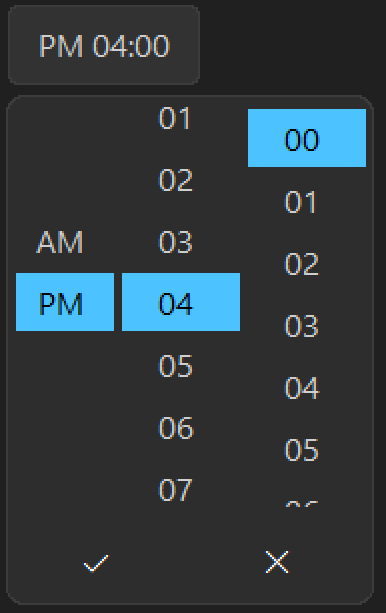
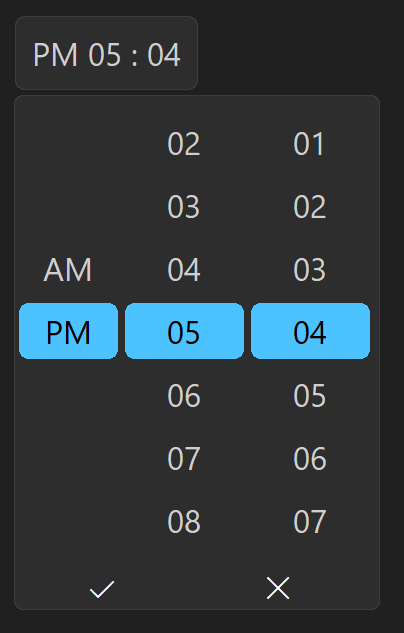
内部背景元素改为圆角

diff --git a/tinuipicker/datepicker.py b/tinuipicker/datepicker.py
@@ -74,12 +74,12 @@ class TinUIDatePicker:
         for i in (self.out_line, self.back, self.main_text):
             self.self.addtag_withtag(uid, i)
             
-        self.self.tag_bind(uid, "<Enter>", lambda e: self.self.itemconfig(self.back, fill=self.cfg['activebg'], outline=self.cfg['activebg']))
-        self.self.tag_bind(uid, "<Leave>", lambda e: self.self.itemconfig(self.back, fill=self.cfg['bg'], outline=self.cfg['bg']))
+        self.self.tag_bind(uid, "<Enter>", lambda _: self.self.itemconfig(self.back, fill=self.cfg['activebg'], outline=self.cfg['activebg']))
+        self.self.tag_bind(uid, "<Leave>", lambda _: self.self.itemconfig(self.back, fill=self.cfg['bg'], outline=self.cfg['bg']))
         self.self.tag_bind(uid, "<Button-1>", self.show)
 
         self.self._BasicTinUI__auto_anchor(uid, self.pos, self.anchor)
-        self.uid.layout = lambda x1, y1, x2, y2, expand=False: self.self._BasicTinUI__auto_layout(
+        self.uid.layout = lambda x1, y1, x2, y2, _=False: self.self._BasicTinUI__auto_layout(
             uid, (x1, y1, x2, y2), self.anchor
         )
 
@@ -91,14 +91,14 @@ class TinUIDatePicker:
         for i in items:
             text_id = box.create_text((mw/2, y_ptr + 2), text=i, fill=self.cfg['fg'], font=self.font, anchor="n")
             bbox = box.bbox(text_id)
-            back_id = box.create_rectangle((3, bbox[1] - 4, 3 + mw, bbox[3] + 4), width=0, fill=self.cfg['bg'])
+            back_id = box._BasicTinUI__ui_polygon(((self.scale_value(5), bbox[1]+self.scale_value(2)), (mw-self.scale_value(5), bbox[3]-self.scale_value(2))), width=self.self.TINUI_RADIUS_SMALL, fill=self.cfg['bg'], outline=self.cfg['bg'])
             box.tkraise(text_id)
             
             # 记录并标记初始选中
             is_sel = (i == box.newres)
             if is_sel:
                 self.sel_backs[col_type] = back_id
-                box.itemconfig(back_id, fill=self.cfg['onbg'])
+                box.itemconfig(back_id, fill=self.cfg['onbg'], outline=self.cfg['onbg'])
                 box.itemconfig(text_id, fill=self.cfg['onfg'])
 
             box.choices[text_id] = [i, text_id, back_id, is_sel]
@@ -107,7 +107,7 @@ class TinUIDatePicker:
                 box.tag_bind(tid, "<Button-1>", lambda e, t=text_id, b=box, ct=col_type: self._pick_sel_it(b, t, ct))
                 box.tag_bind(tid, "<Enter>", lambda e, t=text_id, b=box: self._pick_mouse(b, t, True))
                 box.tag_bind(tid, "<Leave>", lambda e, t=text_id, b=box: self._pick_mouse(b, t, False))
-            y_ptr = bbox[3] + 8
+            y_ptr = bbox[3] + self.scale_value(8)
         
         box.config(scrollregion=box.bbox("all"))
         box.bind("<MouseWheel>", lambda e: box.yview_scroll(int(-1 * (e.delta / 120)), "units"))
@@ -117,7 +117,7 @@ class TinUIDatePicker:
         data = box.choices[t] # [val, txt, back, is_sel]
         if data[3]: return # 已选中不处理
         color = self.cfg['activebg'] if is_enter else self.cfg['bg']
-        box.itemconfig(data[2], fill=color)
+        box.itemconfig(data[2], fill=color, outline=color)
 
     def _pick_sel_it(self, box, t, col_type):
         """处理点击选中"""
@@ -130,7 +130,7 @@ class TinUIDatePicker:
             else:
                 fill_bg = self.cfg['bg']
                 fill_fg = self.cfg['fg']
-            box.itemconfig(data[2], fill=fill_bg)
+            box.itemconfig(data[2], fill=fill_bg, outline=fill_bg)
             box.itemconfig(data[1], fill=fill_fg)
         
         box.newres = box.choices[t][0]
@@ -283,7 +283,7 @@ if __name__ == "__main__":
     ui = BasicTinUI(root)
     # ui.set_scale(scale_factor)
     ui.pack(fill='both', expand=True)
-    tdp = TinUIDatePicker(ui, (10,10), font=("Segoe UI", 12), show_day=False, now=datetime(2026, 2, 19), command=print, anchor='center')
+    tdp = TinUIDatePicker(ui, (10,10), font=("Segoe UI", 12), show_day=True, now=datetime(2026, 2, 19), command=print, anchor='center')
     tdp.set_date(2016, 10)
 
     rp = ExpandPanel(ui)

diff --git a/tinuipicker/timepicker.py b/tinuipicker/timepicker.py
@@ -86,12 +86,12 @@ class TinUITimePicker:
         uid = f"timepicker-{self.main_text}"
         self.uid = TinUIString(uid)
         for i in (self.out_line, self.back, self.main_text): self.self.addtag_withtag(uid, i)
-        self.self.tag_bind(uid, "<Enter>", lambda e: self.self.itemconfig(self.back, fill=self.cfg['activebg'], outline=self.cfg['activebg']))
-        self.self.tag_bind(uid, "<Leave>", lambda e: self.self.itemconfig(self.back, fill=self.cfg['bg'], outline=self.cfg['bg']))
+        self.self.tag_bind(uid, "<Enter>", lambda _: self.self.itemconfig(self.back, fill=self.cfg['activebg'], outline=self.cfg['activebg']))
+        self.self.tag_bind(uid, "<Leave>", lambda _: self.self.itemconfig(self.back, fill=self.cfg['bg'], outline=self.cfg['bg']))
         self.self.tag_bind(uid, "<Button-1>", self.show)
 
         self.self._BasicTinUI__auto_anchor(uid, self.pos, self.anchor)
-        self.uid.layout = lambda x1, y1, x2, y2, expand=False: self.self._BasicTinUI__auto_layout(
+        self.uid.layout = lambda x1, y1, x2, y2, _=False: self.self._BasicTinUI__auto_layout(
             uid, (x1, y1, x2, y2), self.anchor
         )
 
@@ -153,7 +153,7 @@ class TinUITimePicker:
         for i in items:
             text_id = box.create_text((mw/2, y_ptr + 2), text=i, fill=self.cfg['fg'], font=self.font, anchor="n")
             bbox = box.bbox(text_id)
-            back_id = box.create_rectangle((3, bbox[1] - 4, mw+3, bbox[3] + 4), width=0, fill=self.cfg['bg'])
+            back_id = box._BasicTinUI__ui_polygon(((self.scale_value(5), bbox[1]+self.scale_value(2)), (mw-self.scale_value(5), bbox[3]-self.scale_value(2))), width=self.self.TINUI_RADIUS_SMALL, fill=self.cfg['bg'], outline=self.cfg['bg'])
             box.tkraise(text_id)
             
             is_sel = (i == box.newres)
@@ -168,7 +168,7 @@ class TinUITimePicker:
                 box.tag_bind(tid, "<Button-1>", lambda e, t=text_id, b=box: self._pick_sel_it(b, t, col_type))
                 box.tag_bind(tid, "<Enter>", lambda e, t=text_id, b=box: self._pick_mouse(b, t, True))
                 box.tag_bind(tid, "<Leave>", lambda e, t=text_id, b=box: self._pick_mouse(b, t, False))
-            y_ptr = bbox[3] + 8
+            y_ptr = bbox[3] + self.scale_value(8)
         
         bbox = list(box.bbox("all"))
         box.config(scrollregion=bbox)
@@ -177,7 +177,8 @@ class TinUITimePicker:
     def _pick_mouse(self, box, t, is_enter):
         data = box.choices[t]
         if not data[3]:
-            box.itemconfig(data[2], fill=self.cfg['activebg'] if is_enter else self.cfg['bg'])
+            color = self.cfg['activebg'] if is_enter else self.cfg['bg']
+            box.itemconfig(data[2], fill=color, outline=color)
 
     def _pick_sel_it(self, box, t, col_type):
         """切换选中项视觉效果"""
@@ -190,7 +191,7 @@ class TinUITimePicker:
             else:
                 fill_bg = self.cfg['bg']
                 fill_fg = self.cfg['fg']
-            box.itemconfig(data[2], fill=fill_bg)
+            box.itemconfig(data[2], fill=fill_bg, outline=fill_bg)
             box.itemconfig(data[1], fill=fill_fg)
         box.newres = box.choices[t][0]
 